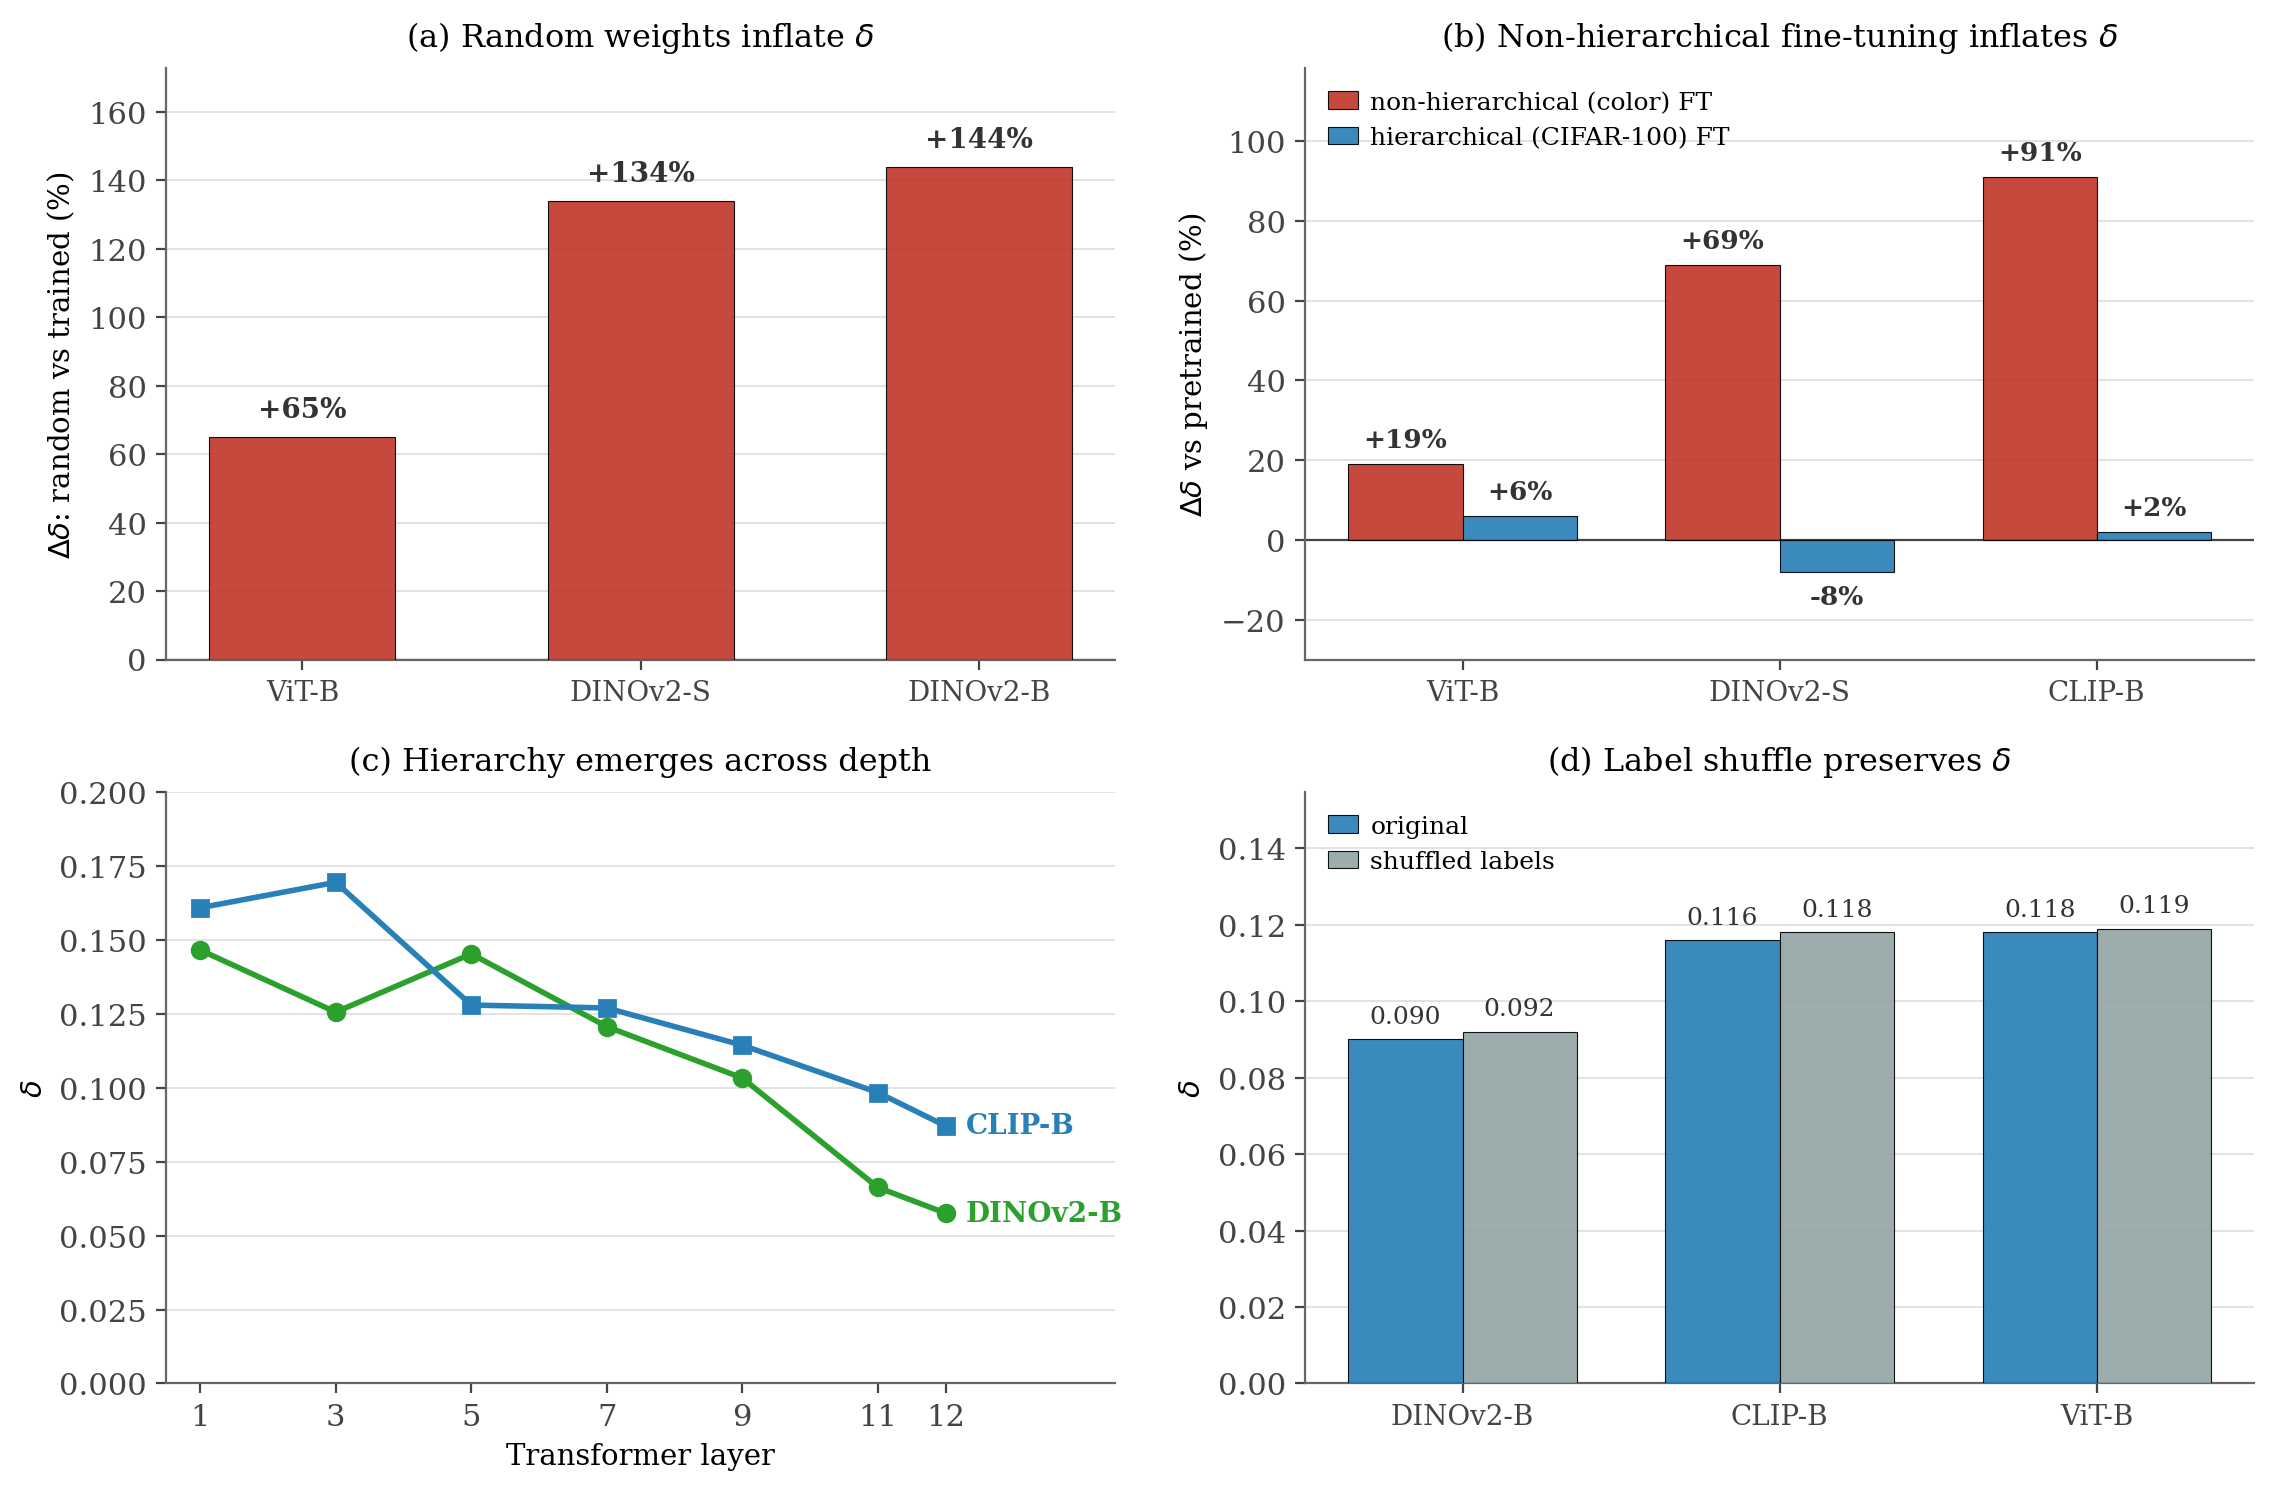
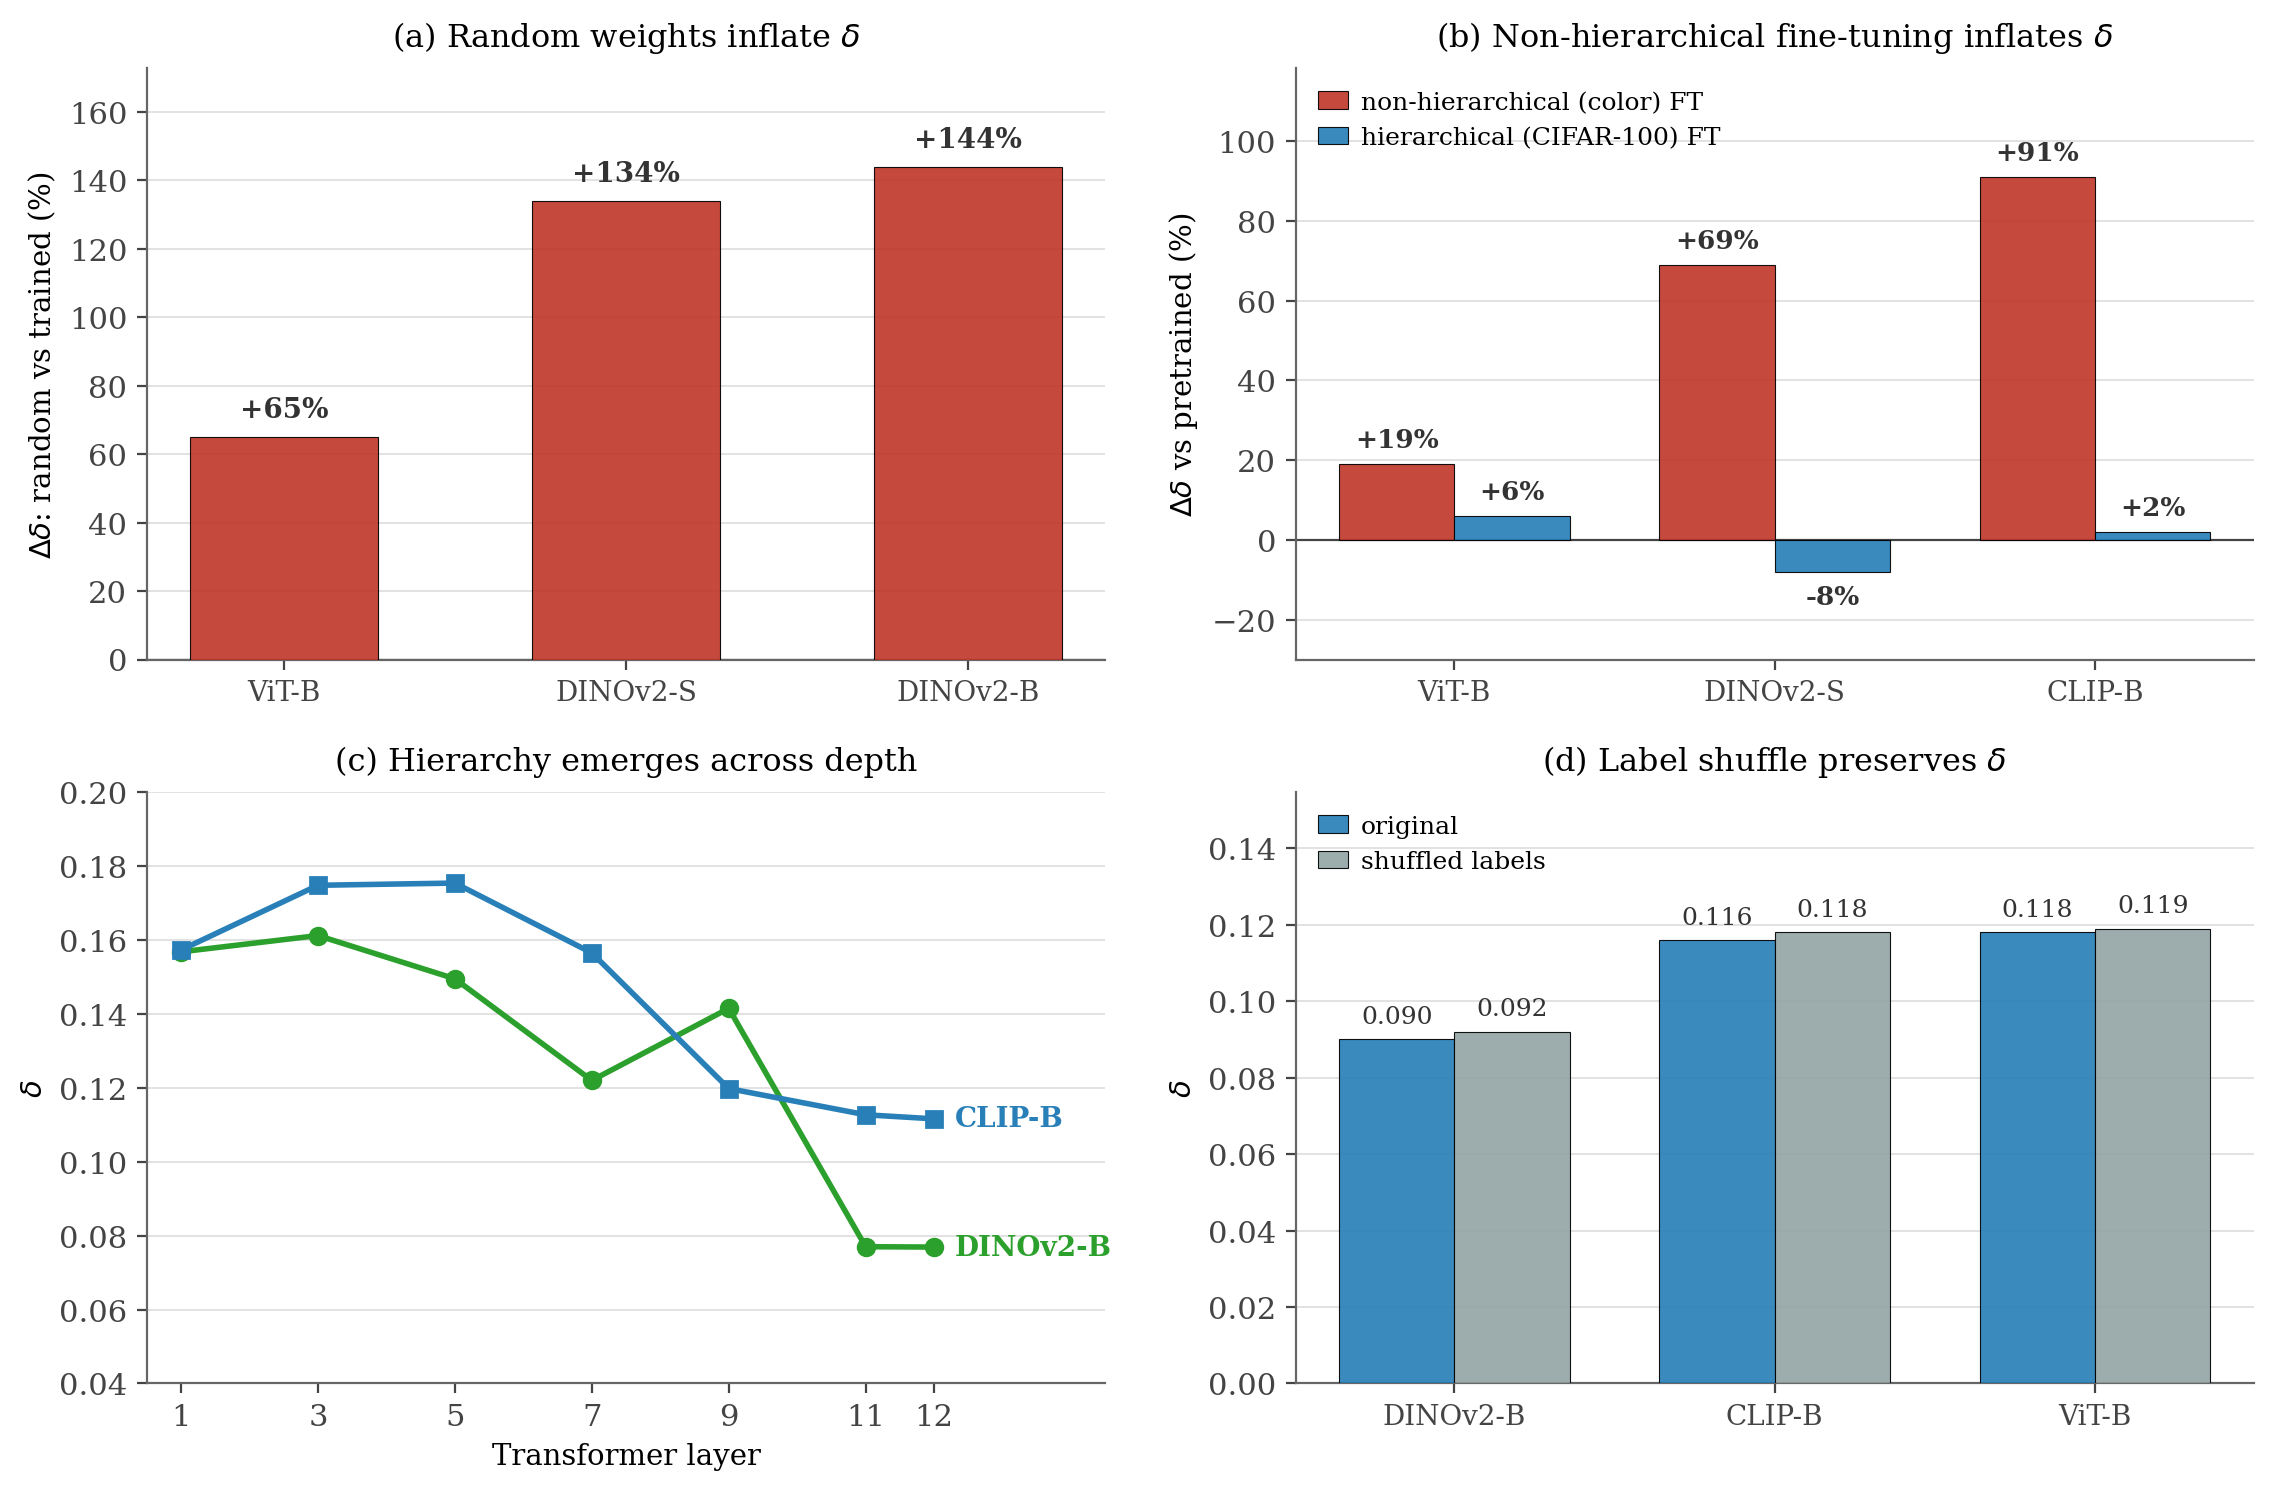
Recompute layer-wise delta on class centroids
The previous layer-wise data in /media/HDD_4TB_2/javi/Platonic/results/e1_delta_by_layer.csv
was computed on per-image CLS samples, not on class centroids, so the
final-layer numbers did not align with the main results table. Re-run
the experiment computing centroids per layer (1000 ImageNet classes x
50 imgs/class, hooks on transformer blocks), and compute the same
delta protocol used in Table 1 (10 seeds x 500K random quadruples).

Updated values: DINOv2-B drops from 0.157 (layer 1) to 0.077 (layer 12,
-51%); CLIP-B drops from 0.157 to 0.112 (-29%). Final-layer values now
agree with the main table within sampling noise (CLIP-B 0.112 vs 0.124)
and the residual gap on DINOv2-B is consistent with using 50 imgs/class
versus the 100 imgs/class of the main extraction.

Update fig3_causal panel (c) data, the (A3) paragraph in section 4.6,
and the figure caption to reflect the new percentages and clarify the
centroid-based protocol.

diff --git a/main.tex b/main.tex
@@ -199,14 +199,14 @@ To distinguish architectural bias and label noise from learned hierarchy, we run
 
 \paragraph{(A2) Non-hierarchical fine-tuning.} Fine-tuning on an 8-class \emph{color} classification task (no class hierarchy by construction) increases $\delta$: CLIP-B ($+91\%$), DINOv2-S ($+69\%$), ViT-B ($+19\%$). Fine-tuning on hierarchical CIFAR-100 produces minimal change ($-8\%$ to $+6\%$). Same protocol, different task structure---only destroying hierarchy raises $\delta$.
 
-\paragraph{(A3) Layer-wise emergence.} $\delta$ decreases progressively from layer~1 to the final layer in pretrained transformers: DINOv2-B ($-60\%$, from $0.147$ to $0.058$) and CLIP-B ($-46\%$, from $0.161$ to $0.087$). Hierarchy is not present at the input embeddings but is built up across depth, confirming that tree-like structure is a learned property of the representation rather than an artefact of token-level features.
+\paragraph{(A3) Layer-wise emergence.} Computing $\delta$ on class centroids (1{,}000 ImageNet classes, $50$ imgs/class) at each transformer block, we observe that $\delta$ decreases progressively from layer~1 to the final layer in pretrained transformers: DINOv2-B ($-51\%$, from $0.157$ to $0.077$) and CLIP-B ($-29\%$, from $0.157$ to $0.112$). Hierarchy is not present in shallow layers but is built up across depth, confirming that tree-like structure is a learned property of the representation rather than an artefact of token-level features.
 
 \paragraph{(A4) Shuffle control (label noise).} Shuffling embedding-to-label correspondence preserves the point-cloud geometry but destroys semantic association: $\delta$ does not change ($p > 0.12$). This rules out a trivial dependence on high-dimensional point-cloud properties and confirms that $\delta$ measures \emph{semantic} organisation, not feature norm or covariance.
 
 \begin{figure}[t]
   \centering
   \includegraphics[width=\linewidth]{figures/fig3_causal.pdf}
-  \caption{Ablations confirming that $\delta$ reflects learned hierarchy. (a)~Random-weight models have 65--144\% higher $\delta$ than trained counterparts---tree-like structure is not architectural. (b)~Color (non-hierarchical) fine-tuning increases $\delta$ by 19--91\%, while hierarchical CIFAR-100 fine-tuning leaves $\delta$ near baseline ($-8$ to $+6\%$). (c)~$\delta$ decreases monotonically from layer~1 to the final layer in DINOv2-B ($-60\%$) and CLIP-B ($-46\%$): hierarchy emerges across depth. (d)~Shuffling embedding-to-label correspondence preserves $\delta$ ($p > 0.12$), ruling out a trivial dependence on point-cloud properties.}
+  \caption{Ablations confirming that $\delta$ reflects learned hierarchy. (a)~Random-weight models have 65--144\% higher $\delta$ than trained counterparts---tree-like structure is not architectural. (b)~Color (non-hierarchical) fine-tuning increases $\delta$ by 19--91\%, while hierarchical CIFAR-100 fine-tuning leaves $\delta$ near baseline ($-8$ to $+6\%$). (c)~$\delta$ decreases from layer~1 to the final layer when computed on class centroids in DINOv2-B ($-51\%$) and CLIP-B ($-29\%$): hierarchy emerges across depth. (d)~Shuffling embedding-to-label correspondence preserves $\delta$ ($p > 0.12$), ruling out a trivial dependence on point-cloud properties.}
   \label{fig:causal}
 \end{figure}
 
